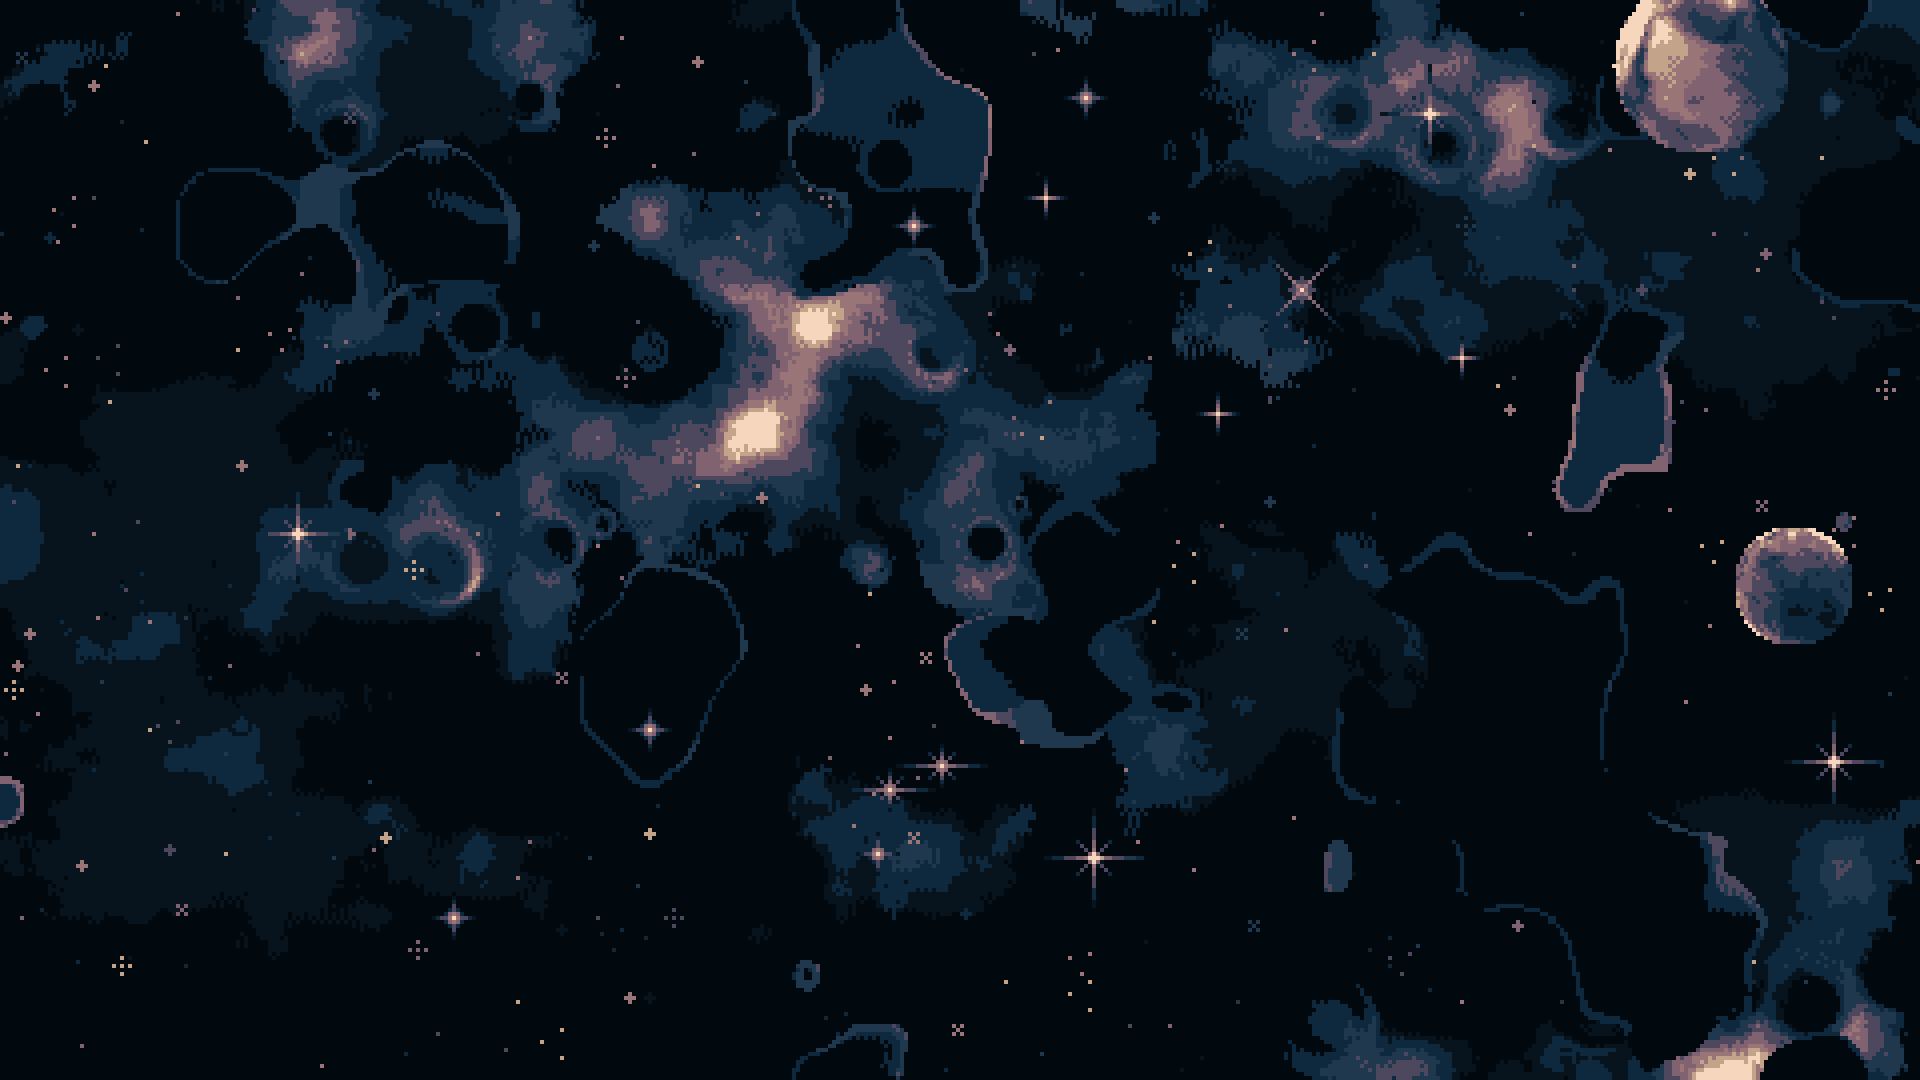
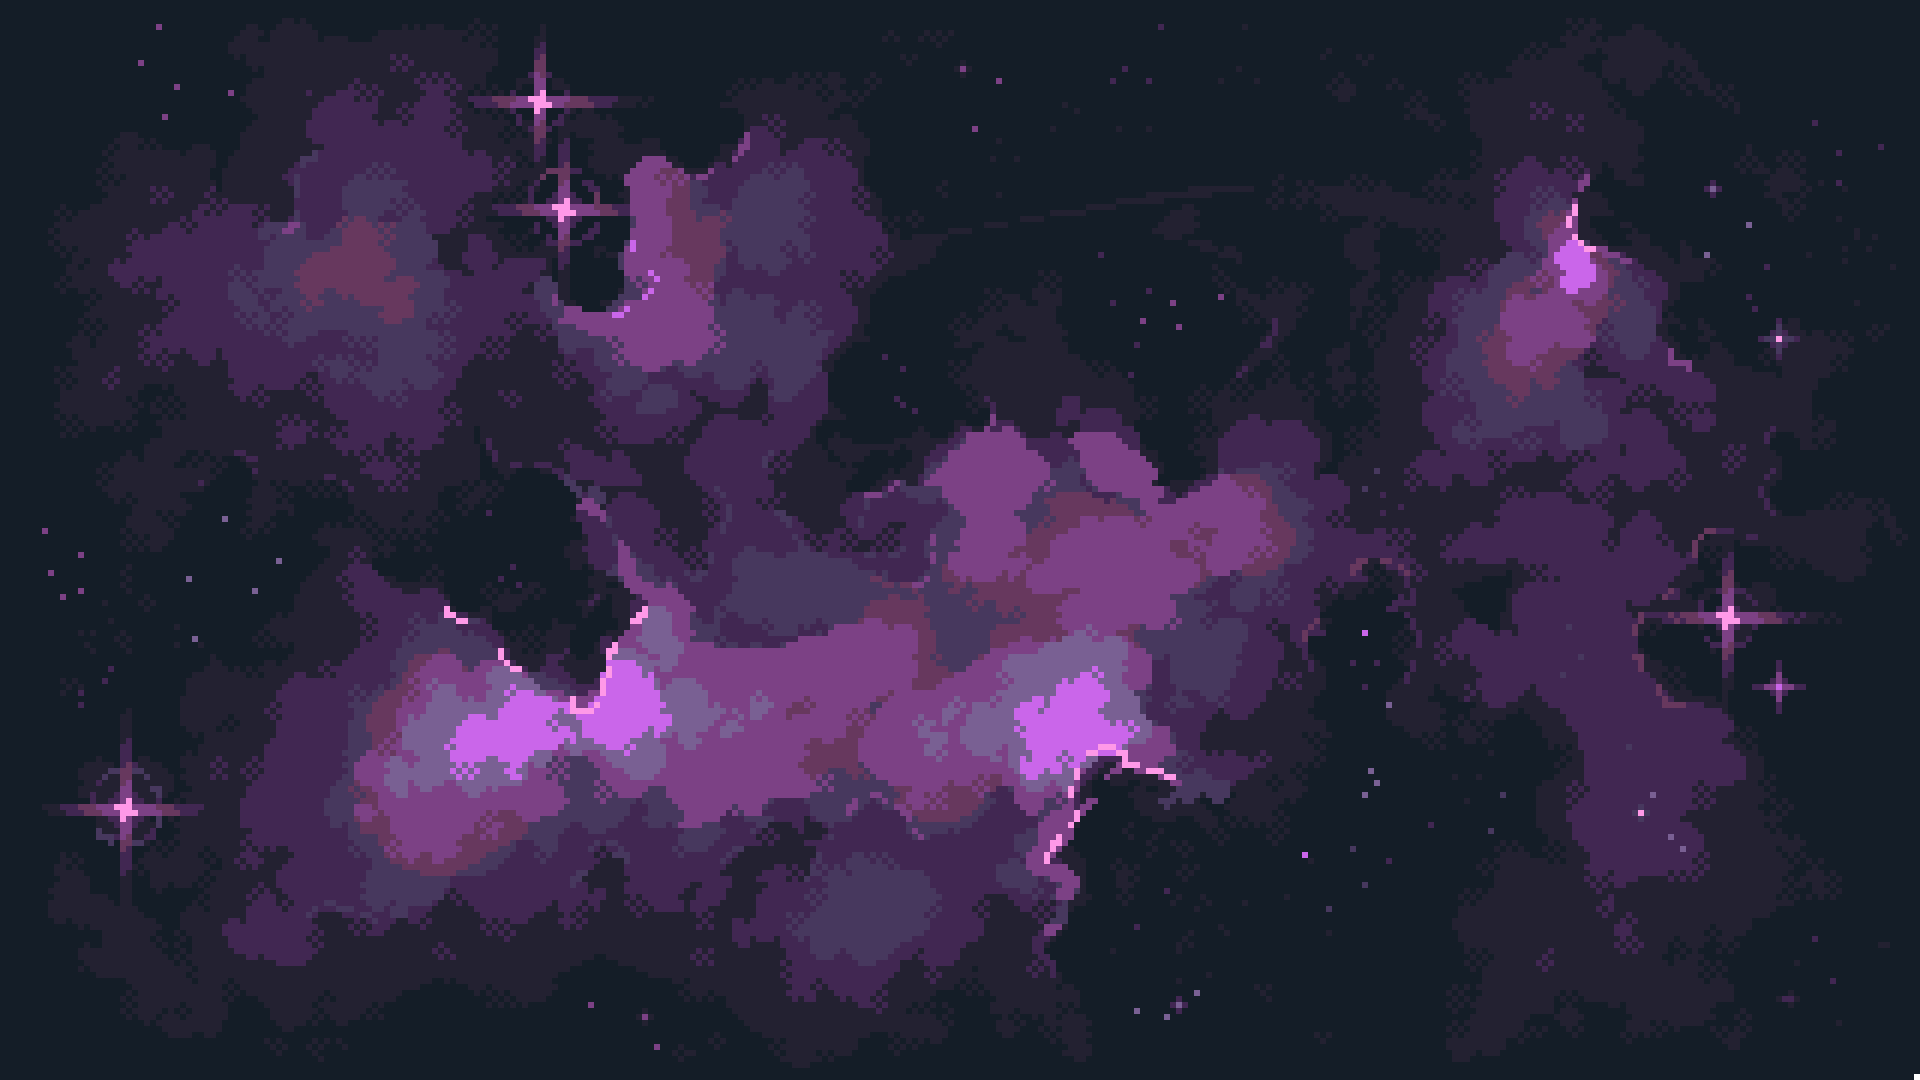
worked on resizing

diff --git a/spaceshooter/utils.js b/spaceshooter/utils.js
@@ -2,11 +2,43 @@
 const canvas = document.querySelector(".game-canvas");
 const ctx = canvas.getContext("2d");
 
-ctx.webkitImageSmoothingEnabled = false;
-ctx.mozImageSmoothingEnabled = false;
-ctx.imageSmoothingEnabled = false;
+const scanvas = document.querySelector(".score-canvas");
+const sctx = scanvas.getContext("2d");
 
-ctx.scale(3.5,3.5);
+function scaleCanvas(){
+    const wHeight = window.innerHeight;
+    const wWidth = window.innerWidth;
+    
+    var scaleFactor;
+    if(wHeight * 19 > wWidth * 12){ //width constricts 
+        scaleFactor = Math.floor((wWidth-20)/41.8)/10;
+        canvas.width = scaleFactor*352;
+        canvas.height = scaleFactor*264;
+        scanvas.width = scaleFactor*66;
+        scanvas.height = scaleFactor*264;
+    }else{ // height constricts
+        scaleFactor = Math.floor((wHeight-20)/26.4)/10;
+        canvas.width = scaleFactor*352;
+        canvas.height = scaleFactor*264; 
+        scanvas.width = scaleFactor*66;
+        scanvas.height = scaleFactor*264;
+    }
+    
+    ctx.webkitImageSmoothingEnabled = false;
+    ctx.mozImageSmoothingEnabled = false;
+    ctx.imageSmoothingEnabled = false;
+    
+    ctx.scale(scaleFactor, scaleFactor);
+    sctx.scale(scaleFactor, scaleFactor);
+
+    //temporary
+    sctx.fillStyle = "#00172B";
+    sctx.fillRect(0, 0, 66, 264);
+}
+
+scaleCanvas();
+window.onresize = scaleCanvas;
+
 
 // let canvasWidth = canvas.width;
 // let canvasHeight = canvas.height;

diff --git a/spaceshooter/styles.css b/spaceshooter/styles.css
@@ -3,7 +3,7 @@
 body {
   background-color: #00172B;
 
-  /*background-image: url('/spaceshooter/assets/bg/background.png');*/
+  background-image: url('/spaceshooter/assets/bg/background.png');
 
   padding: 0;
   margin: 0;
@@ -11,6 +11,13 @@ body {
   height: 100vh;
 
   
+
+}
+
+
+.game-container {
+  margin: 0;
+  padding: 0;
   display: flex;
   align-items: center;
   justify-content: center;
@@ -25,11 +32,11 @@ body {
   image-rendering: -o-crisp-edges;            /*OS X & Windows Opera (12.02+)*/
   image-rendering: crisp-edges;               /*Possible future browsers*/
   -ms-interpolation-mode: nearest-neighbor;   /*IE (non standard naming)*/
-  border: 6px solid #01090f;
-  border-right-width: 3px;
+  border: 12px solid #141D27;
+  border-right-width: 6px;
 }
 
 .score-canvas {
-  border: 6px solid #01090f;
-  border-left-width: 3px;
+  border: 12px solid #141D27;
+  border-left-width: 6px;
 }

diff --git a/spaceshooter/index.html b/spaceshooter/index.html
@@ -5,9 +5,10 @@
         <link rel="stylesheet" href="styles.css">
     </head>
     <body>
-        <canvas class="game-canvas" width = "1232" height = "924"></canvas>
-        <canvas class="score-canvas" width = "231" height = "924"></canvas>
-        
+        <div class="game-container">
+            <canvas class="game-canvas" width = "1232" height = "924"></canvas>
+            <canvas class="score-canvas" width = "231" height = "924"></canvas>
+        </div>
         <!-- Scripts -->
         <script src="utils.js"></script>
         <script src="background.js"></script>

diff --git a/spaceshooter/enemies.js b/spaceshooter/enemies.js
@@ -53,7 +53,7 @@ class EnemyManager {
 
     testing_gen(){
         this.genEnemy(1);
-        //window.setInterval(this.genEnemy.bind(this), 3000, 0);
+        window.setInterval(this.genEnemy.bind(this), 3000, 0);
     }
 }
 

diff --git a/spaceshooter/score.js b/spaceshooter/score.js
@@ -1,5 +1,2 @@
-const scanvas = document.querySelector(".score-canvas");
-const sctx = scanvas.getContext("2d");
-
 sctx.fillStyle = "#00172B";
-sctx.fillRect(0, 0, 231, 924);
+sctx.fillRect(0, 0, 66, 264);
